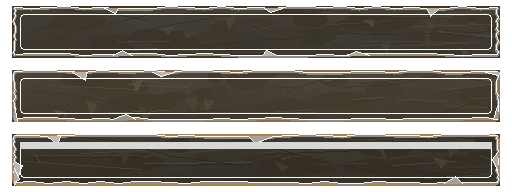
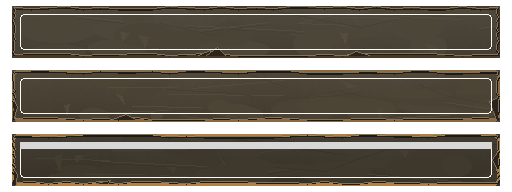
3

diff --git a/tools/ci/generate_lapidary_ui_assets.py b/tools/ci/generate_lapidary_ui_assets.py
@@ -33,12 +33,12 @@ def _rgba(hex_value: str, alpha: int = 255) -> tuple[int, int, int, int]:
     )
 
 
-STONE = _rgba("#3b352b")
-STONE_LIGHT = _rgba("#635946")
-STONE_DARK = _rgba("#211d18")
-BRONZE = _rgba("#8f6b3f")
-BRONZE_DARK = _rgba("#4a361f")
-GROOVE = _rgba("#16130f")
+STONE = _rgba("#4b4538")
+STONE_LIGHT = _rgba("#756b57")
+STONE_DARK = _rgba("#29241d")
+BRONZE = _rgba("#8b6a42")
+BRONZE_DARK = _rgba("#4b3722")
+GROOVE = _rgba("#1d1914")
 
 
 def _noise_layer(size: tuple[int, int], opacity: int, seed: int) -> Image.Image:
@@ -94,8 +94,8 @@ def _roughen_outer_edge(
     bottom = _jittered_edge_path((x2, y2), (x1, y2), seed + 3, 28, amplitude)
     left = _jittered_edge_path((x1, y2), (x1, y1), seed + 4, 18, amplitude)
     for path in (top, right, bottom, left):
-        draw.line(path, fill=(12, 10, 8, 120), width=3, joint="curve")
-        draw.line([(x, y - 1) for x, y in path], fill=(232, 218, 184, 32), width=1)
+        draw.line(path, fill=(30, 26, 21, 255), width=2, joint="curve")
+        draw.line([(x, y - 1) for x, y in path], fill=(128, 116, 92, 255), width=1)
     for _ in range(notches):
         side = rng.choice(("top", "right", "bottom", "left"))
         if side in ("top", "bottom"):
@@ -106,17 +106,17 @@ def _roughen_outer_edge(
             x = x1 if side == "left" else x2
             y = rng.randint(y1 + 12, y2 - 12)
             notch = [(x, y), (x + (rng.randint(3, 8) if side == "left" else -rng.randint(3, 8)), y + rng.randint(4, 14)), (x, y + rng.randint(12, 26))]
-        draw.polygon(notch, fill=(18, 15, 12, rng.randint(70, 115)))
-        draw.line(notch, fill=(232, 218, 184, rng.randint(20, 38)), width=1)
+        draw.polygon(notch, fill=(42, 36, 28, 255))
+        draw.line(notch, fill=(126, 112, 86, 255), width=1)
 
 
 def _carved_rect(draw: ImageDraw.ImageDraw, box: tuple[int, int, int, int], radius: int) -> None:
     x1, y1, x2, y2 = box
     draw.rounded_rectangle(box, radius=radius, fill=None, outline=STONE_DARK, width=5)
     draw.rounded_rectangle((x1 + 5, y1 + 5, x2 - 5, y2 - 5), radius=max(1, radius - 4), outline=BRONZE_DARK, width=2)
-    draw.rounded_rectangle((x1 + 12, y1 + 12, x2 - 12, y2 - 12), radius=max(1, radius - 8), outline=(217, 194, 145, 42), width=1)
-    draw.line((x1 + 10, y2 - 12, x2 - 10, y2 - 12), fill=(0, 0, 0, 72), width=2)
-    draw.line((x1 + 10, y1 + 10, x2 - 10, y1 + 10), fill=(255, 236, 190, 48), width=2)
+    draw.rounded_rectangle((x1 + 12, y1 + 12, x2 - 12, y2 - 12), radius=max(1, radius - 8), outline=(136, 122, 92, 255), width=1)
+    draw.line((x1 + 10, y2 - 12, x2 - 10, y2 - 12), fill=(22, 19, 15, 255), width=2)
+    draw.line((x1 + 10, y1 + 10, x2 - 10, y1 + 10), fill=(148, 134, 104, 255), width=2)
 
 
 def _stone_base(size: tuple[int, int], seed: int) -> Image.Image:
@@ -127,30 +127,30 @@ def _stone_base(size: tuple[int, int], seed: int) -> Image.Image:
     for y in range(h):
         shade = int((y / max(1, h - 1)) * -22)
         for x in range(w):
-            ripple = int(math.sin((x + seed) * 0.035) * 4)
+            ripple = int(math.sin((x + seed) * 0.032) * 3)
             r = max(0, min(255, STONE[0] + shade + ripple))
             g = max(0, min(255, STONE[1] + shade + ripple))
             b = max(0, min(255, STONE[2] + shade + ripple))
             px[x, y] = (r, g, b, 255)
-    img.alpha_composite(_noise_layer(size, 58, seed))
+    img.alpha_composite(_noise_layer(size, 34, seed))
     draw = ImageDraw.Draw(img, "RGBA")
-    for i in range(26):
+    for i in range(18):
         x = rng.randint(0, max(0, w - 12))
         y = rng.randint(0, max(0, h - 12))
-        rx = rng.randint(14, 74)
-        ry = rng.randint(4, 18)
+        rx = rng.randint(20, 96)
+        ry = rng.randint(8, 28)
         color = STONE_LIGHT if i % 3 != 0 else _rgba("#2f2a22")
-        alpha = rng.randint(10, 26)
+        alpha = rng.randint(8, 18)
         draw.ellipse((x, y, min(w, x + rx), min(h, y + ry)), fill=(color[0], color[1], color[2], alpha))
-    for i in range(22):
+    for i in range(14):
         x = rng.randint(0, w)
         y = rng.randint(0, h)
         ln = rng.randint(18, 120)
         lift = rng.randint(-8, 8)
-        draw.line((x, y, min(w, x + ln), max(0, min(h, y + lift))), fill=(232, 218, 184, rng.randint(22, 48)), width=1)
+        draw.line((x, y, min(w, x + ln), max(0, min(h, y + lift))), fill=(176, 160, 124, rng.randint(24, 42)), width=1)
         if i % 3 == 0:
-            draw.line((x + 1, y + 2, min(w, x + ln + 1), max(0, min(h, y + lift + 2))), fill=(0, 0, 0, 24), width=1)
-    for i in range(8):
+            draw.line((x + 1, y + 2, min(w, x + ln + 1), max(0, min(h, y + lift + 2))), fill=(30, 26, 21, 36), width=1)
+    for i in range(5):
         x = rng.randint(8, max(8, w - 8))
         y = rng.randint(8, max(8, h - 8))
         draw.polygon(
@@ -159,9 +159,9 @@ def _stone_base(size: tuple[int, int], seed: int) -> Image.Image:
                 (x + rng.randint(4, 16), y + rng.randint(-3, 6)),
                 (x + rng.randint(1, 10), y + rng.randint(5, 16)),
             ],
-            fill=(238, 224, 188, rng.randint(22, 46)),
+            fill=(162, 146, 112, rng.randint(24, 42)),
         )
-    for i in range(6):
+    for i in range(4):
         x = rng.randint(0, w)
         y = rng.randint(0, h)
         points = [(x, y)]
@@ -169,7 +169,7 @@ def _stone_base(size: tuple[int, int], seed: int) -> Image.Image:
             x = max(0, min(w, x + rng.randint(20, 70)))
             y = max(0, min(h, y + rng.randint(-18, 18)))
             points.append((x, y))
-        draw.line(points, fill=(0, 0, 0, rng.randint(22, 42)), width=1)
+        draw.line(points, fill=(28, 24, 19, rng.randint(28, 48)), width=1)
     opaque = Image.new("RGBA", size, STONE)
     opaque.alpha_composite(img)
     return opaque
@@ -185,11 +185,11 @@ def register_slab_large(path: Path) -> None:
     slab = _stone_base((960, 448), 11)
     sd = ImageDraw.Draw(slab, "RGBA")
     _carved_rect(sd, (0, 0, 959, 447), 16)
-    _roughen_outer_edge(slab, (2, 2, 957, 445), 301, 4)
+    _roughen_outer_edge(slab, (2, 2, 957, 445), 301, 2, 10)
     _carved_rect(sd, (42, 66, 448, 348), 10)
-    _roughen_outer_edge(slab, (43, 67, 447, 347), 302, 2)
+    _roughen_outer_edge(slab, (43, 67, 447, 347), 302, 1, 4)
     _carved_rect(sd, (512, 66, 918, 348), 10)
-    _roughen_outer_edge(slab, (513, 67, 917, 347), 303, 2)
+    _roughen_outer_edge(slab, (513, 67, 917, 347), 303, 1, 4)
     sd.rectangle((488, 42, 496, 386), fill=(0, 0, 0, 92))
     sd.rectangle((498, 42, 502, 386), fill=(160, 124, 72, 90))
     sd.rounded_rectangle((142, 382, 818, 410), radius=5, fill=GROOVE, outline=STONE_DARK, width=2)
@@ -202,7 +202,7 @@ def register_tablet(path: Path) -> None:
     tablet = _stone_base((416, 328), 23)
     draw = ImageDraw.Draw(tablet, "RGBA")
     _carved_rect(draw, (0, 0, 415, 327), 12)
-    _roughen_outer_edge(tablet, (2, 2, 413, 325), 401, 3)
+    _roughen_outer_edge(tablet, (2, 2, 413, 325), 401, 2, 8)
     for y in (78, 140, 202, 264):
         draw.line((44, y, 372, y), fill=(255, 220, 150, 22), width=1)
     img.alpha_composite(tablet, (16, 16))
@@ -222,7 +222,7 @@ def button_tablet_states(path: Path) -> None:
         button.alpha_composite(Image.new("RGBA", (488, 52), (fill[0], fill[1], fill[2], min(fill[3], 96))))
         bd = ImageDraw.Draw(button, "RGBA")
         bd.rounded_rectangle((0, 0, 487, 51), radius=6, outline=outline, width=3)
-        _roughen_outer_edge(button, (2, 2, 485, 49), 501 + seed, 1, 6)
+        _roughen_outer_edge(button, (2, 2, 485, 49), 501 + seed, 1, 3)
         bd.rounded_rectangle((8, 8, 479, 43), radius=4, outline=(255, 220, 150, 28), width=1)
         if row == 2:
             bd.rectangle((8, 8, 479, 14), fill=(0, 0, 0, 40))
@@ -236,7 +236,7 @@ def _button_state(path: Path, fill: tuple[int, int, int, int], outline: tuple[in
     button.alpha_composite(Image.new("RGBA", (488, 52), (fill[0], fill[1], fill[2], min(fill[3], 96))))
     bd = ImageDraw.Draw(button, "RGBA")
     bd.rounded_rectangle((0, 0, 487, 51), radius=6, outline=outline, width=3)
-    _roughen_outer_edge(button, (2, 2, 485, 49), 601 + seed, 1, 6)
+    _roughen_outer_edge(button, (2, 2, 485, 49), 601 + seed, 1, 3)
     bd.rounded_rectangle((8, 8, 479, 43), radius=4, outline=(255, 220, 150, 28), width=1)
     if inset:
         bd.rectangle((8, 8, 479, 15), fill=(0, 0, 0, 48))
@@ -265,7 +265,7 @@ def title_plaque(path: Path) -> None:
     plaque = _stone_base((608, 88), 41)
     draw = ImageDraw.Draw(plaque, "RGBA")
     _carved_rect(draw, (0, 0, 607, 87), 10)
-    _roughen_outer_edge(plaque, (2, 2, 605, 85), 701, 1, 8)
+    _roughen_outer_edge(plaque, (2, 2, 605, 85), 701, 1, 4)
     draw.line((66, 44, 542, 44), fill=(255, 220, 150, 28), width=1)
     img.alpha_composite(plaque, (16, 20))
     img.save(path)
@@ -276,7 +276,7 @@ def pressure_groove(path: Path) -> None:
     rail = _stone_base((736, 64), 52)
     draw = ImageDraw.Draw(rail, "RGBA")
     _carved_rect(draw, (0, 0, 735, 63), 8)
-    _roughen_outer_edge(rail, (2, 2, 733, 61), 801, 1, 6)
+    _roughen_outer_edge(rail, (2, 2, 733, 61), 801, 1, 4)
     draw.rounded_rectangle((40, 22, 696, 42), radius=4, fill=GROOVE, outline=BRONZE_DARK, width=2)
     draw.line((44, 23, 692, 23), fill=(255, 220, 150, 20), width=1)
     img.alpha_composite(rail, (16, 16))
